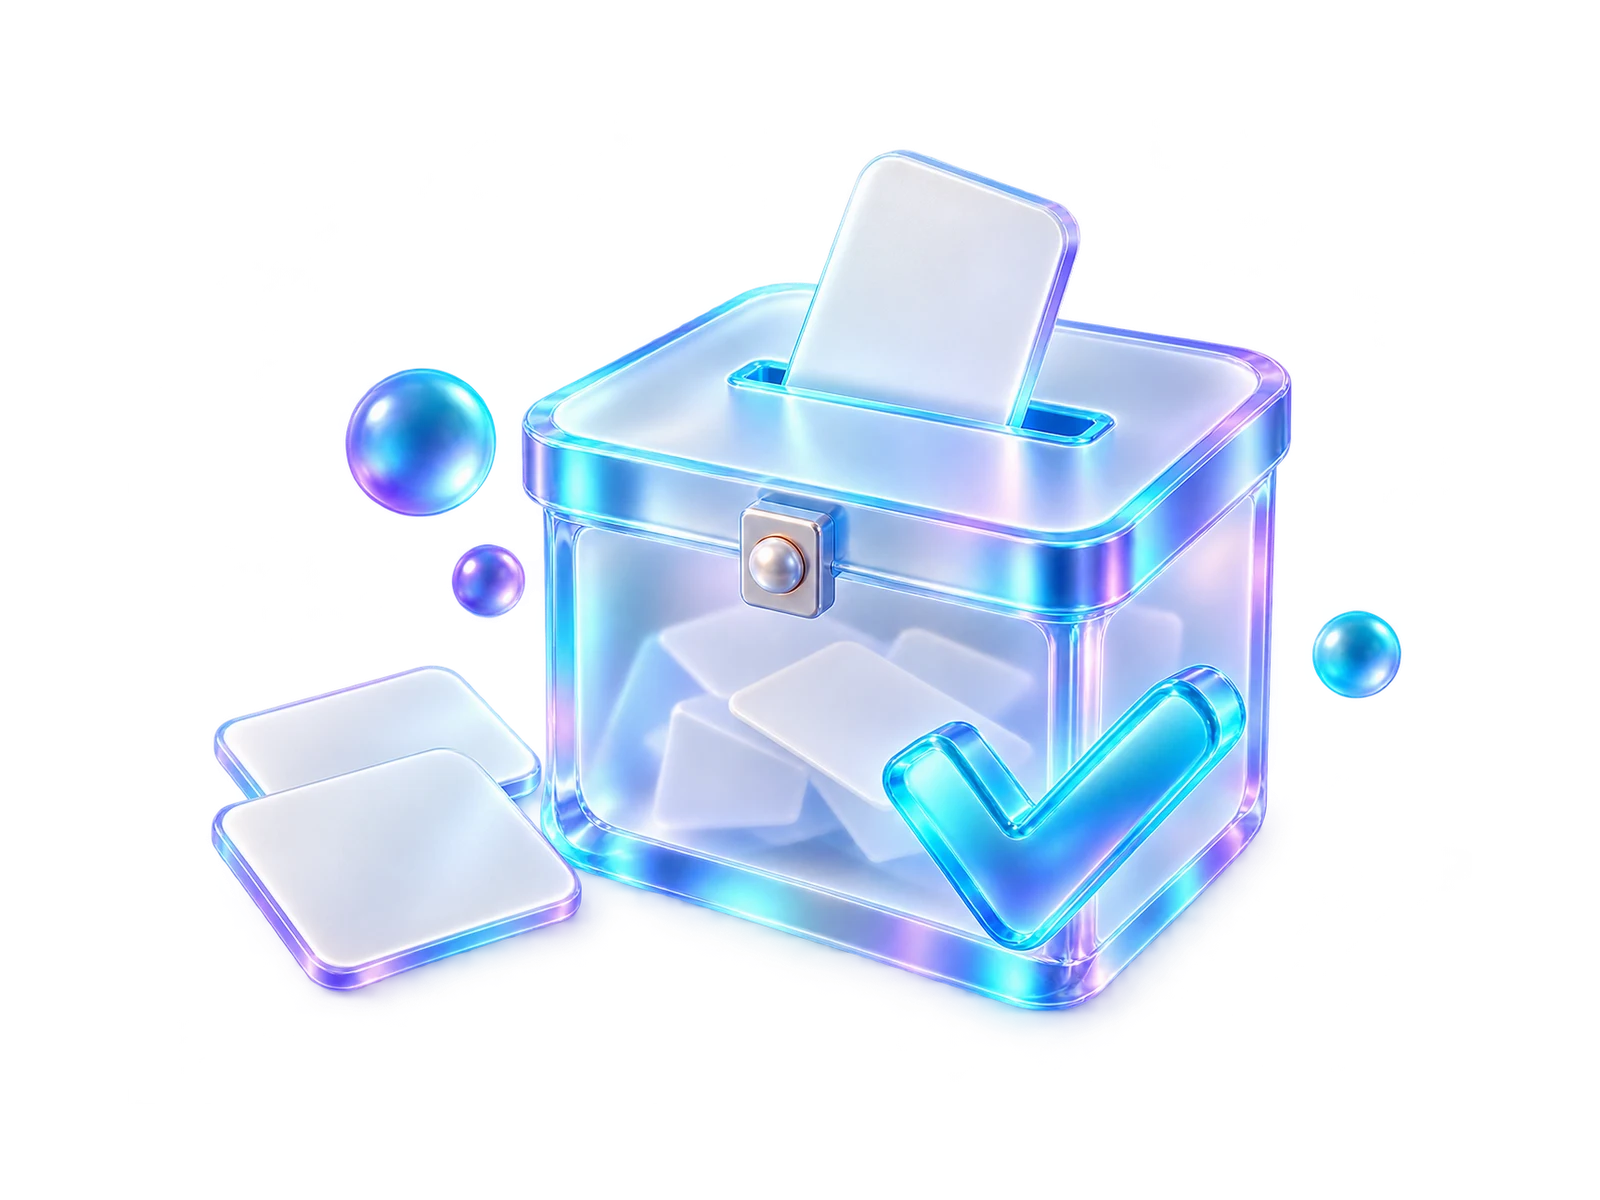
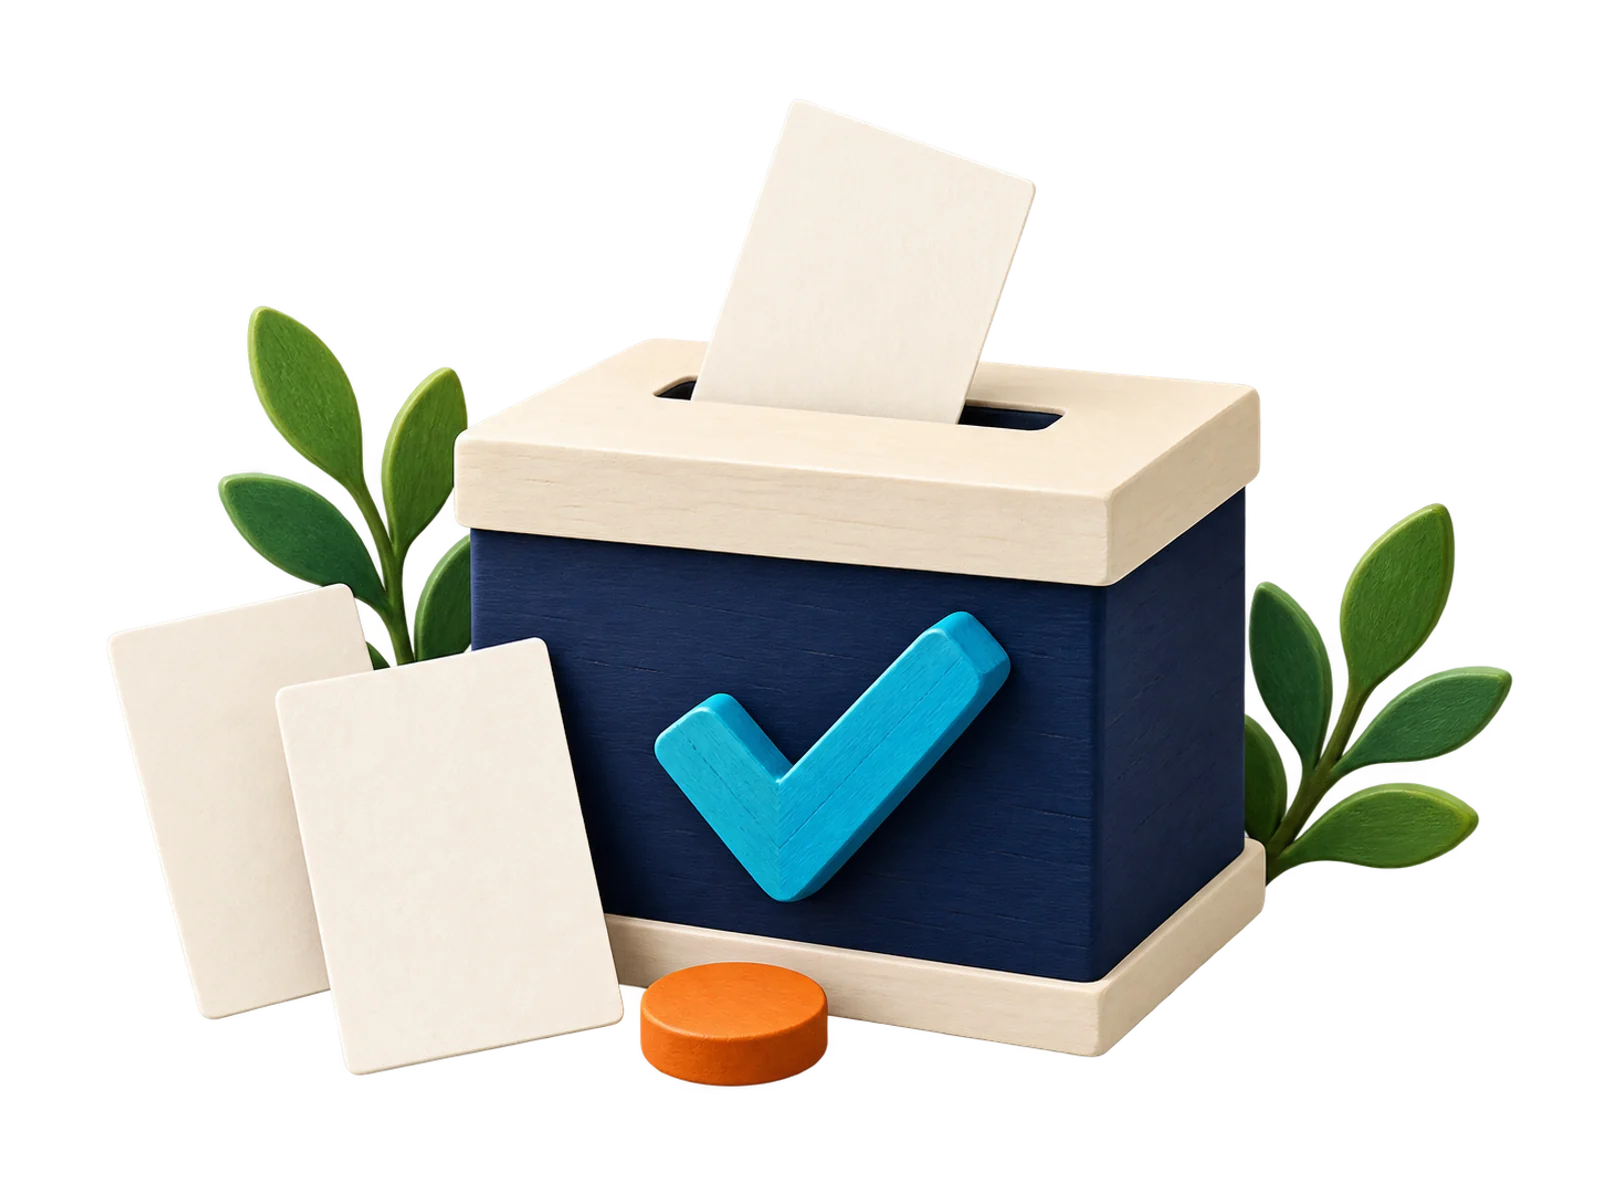
Mix tactile school artwork with glass controls and ivory reading cards

diff --git a/app/globals.css b/app/globals.css
@@ -1,10 +1,13 @@
-/* Shared glass system. Keep tokens in brand.ts; all pages use this layer. */
+/* Shared identity: glass controls and warm opaque editorial surfaces. */
 :root {
   color-scheme: light;
   --radius: 26px;
   --shadow: inset 0 1px 1px #fff, 0 10px 28px #344d6f0d, 0 3px 0 #dce6f180;
   --glass: linear-gradient(145deg, #fffffff5, #f8fbfff2 60%, #eaf1ffdd);
   --control-radius: 14px;
+  --paper: #fffdf9;
+  --paper-line: #e7e2d9;
+  --paper-shadow: 0 10px 30px #493d2a0a;
 }
 * {
   box-sizing: border-box;
@@ -469,16 +472,10 @@ main {
 .knowledge-panel {
   position: relative;
   padding: 40px;
-  border: 1px solid #fff;
+  border: 1px solid #dfe7f0;
   border-radius: 32px;
-  background:
-    radial-gradient(at 100% 80%, #d2f0fb80, transparent 55%),
-    radial-gradient(at 0 0, #e3dbff80, transparent 50%),
-    linear-gradient(130deg, #ecf4ffb0, #ffffff8a);
-  box-shadow:
-    inset 0 0 0 7px #ffffff40,
-    0 0 0 1px #dae5f1,
-    0 20px 40px #3d5a7d08;
+  background: #edf3fb;
+  box-shadow: 0 12px 35px #344d6f08;
 }
 .knowledge-panel .eyebrow {
   font-size: 12px;
@@ -493,13 +490,10 @@ main {
   display: block;
   position: relative;
   padding: 26px 22px 20px;
-  border: 1px solid white;
+  border: 1px solid var(--paper-line);
   border-radius: 24px;
-  background: linear-gradient(145deg, #ffffffdc, #ffffff80);
-  box-shadow:
-    0 12px 23px color-mix(in srgb, var(--tone) 9%, transparent),
-    inset 0 2px 1px white,
-    0 4px 0 #cbd9ee35;
+  background: var(--paper);
+  box-shadow: var(--paper-shadow);
   color: var(--text);
   transition: transform 0.25s;
 }
@@ -525,15 +519,9 @@ main {
   height: 68px;
   border: 1px solid white;
   border-radius: 19px;
-  background: linear-gradient(
-    145deg,
-    #fff,
-    color-mix(in srgb, var(--tone) 13%, white)
-  );
-  box-shadow:
-    inset 0 2px 1px #fff,
-    0 5px 0 color-mix(in srgb, var(--tone) 13%, #dbe5f1),
-    0 10px 20px color-mix(in srgb, var(--tone) 17%, transparent);
+  background: color-mix(in srgb, var(--tone, var(--primary)) 8%, var(--paper));
+  box-shadow: 0 4px 0
+    color-mix(in srgb, var(--tone, var(--primary)) 16%, #e7e2d9);
   color: var(--tone);
   margin-bottom: 27px;
   transform: rotate(-5deg);
@@ -567,13 +555,11 @@ main {
   gap: 24px;
 }
 .card {
-  background: var(--glass);
-  border: 1px solid #fff;
+  background: var(--paper);
+  border: 1px solid var(--paper-line);
   border-radius: var(--radius);
   padding: 26px;
-  box-shadow:
-    var(--shadow),
-    0 0 0 1px #dde7f070;
+  box-shadow: var(--paper-shadow);
 }
 .card h3 {
   margin: 0 0 12px;
@@ -671,12 +657,10 @@ main {
   flex-direction: column;
   min-width: 0;
   border-radius: 26px;
-  background: var(--glass);
-  border: 1px solid white;
+  background: var(--paper);
+  border: 1px solid var(--paper-line);
   overflow: hidden;
-  box-shadow:
-    var(--shadow),
-    0 0 0 1px #dce5f180;
+  box-shadow: var(--paper-shadow);
   transition:
     transform 0.2s,
     box-shadow 0.2s;
@@ -779,11 +763,7 @@ main {
   --gc: var(--g7);
   color: var(--text);
   transition: transform 0.2s;
-  background: linear-gradient(
-    140deg,
-    #ffffffed,
-    color-mix(in srgb, var(--gc) 4%, #fff)
-  );
+  background: var(--paper);
   border: 1px solid color-mix(in srgb, var(--gc) 15%, white);
 }
 .grade-tile:hover {
@@ -841,12 +821,10 @@ main {
   gap: 40px;
   align-items: center;
   padding: 45px 55px;
-  background:
-    radial-gradient(at 0 100%, #d8ccff75, transparent 60%),
-    linear-gradient(120deg, #e9f7fc, #eef1ff);
+  background: var(--paper);
   border-radius: 32px;
-  border: 1px solid white;
-  box-shadow: var(--shadow);
+  border: 1px solid var(--paper-line);
+  box-shadow: var(--paper-shadow);
 }
 .participation-banner h2 {
   font-size: 40px;
@@ -1149,12 +1127,10 @@ input[type="radio"] {
   width: 54px;
   height: 54px;
   border-radius: 16px;
-  background: linear-gradient(140deg, #fff, #dceeff);
+  background: color-mix(in srgb, var(--tone, var(--primary)) 8%, var(--paper));
   color: var(--ic, var(--primary));
-  box-shadow:
-    inset 0 1px 1px #fff,
-    0 3px 0 #bfd4ee55,
-    0 7px 12px #5577a313;
+  box-shadow: 0 4px 0
+    color-mix(in srgb, var(--tone, var(--primary)) 16%, #e7e2d9);
   margin-bottom: 19px;
 }
 .mobile-break {

diff --git a/content/assets.ts b/content/assets.ts
@@ -12,15 +12,15 @@ export type Illustration = {
 
 export const illustrations = {
   "home-hero": { file: "/assets/illustrations/home-hero.webp", width: 1600, height: 1200, fallback: "reading" },
-  "grade-7-discover": { file: "/assets/illustrations/grade-7-discover.webp", width: 1200, height: 900, fallback: "grade7" },
-  "grade-8-experiment": { file: "/assets/illustrations/grade-8-experiment.webp", width: 1200, height: 900, fallback: "grade8" },
-  "grade-9-launch": { file: "/assets/illustrations/grade-9-launch.webp", width: 1200, height: 900, fallback: "grade9" },
-  "school-values": { file: "/assets/illustrations/school-values.webp", width: 1200, height: 900, fallback: "values" },
-  "challenge-lab": { file: "/assets/illustrations/challenge-lab.webp", width: 1200, height: 900, fallback: "challenges" },
-  "debate-dialogue": { file: "/assets/illustrations/debate-dialogue.webp", width: 1200, height: 900, fallback: "debate" },
-  "vote-voice": { file: "/assets/illustrations/vote-voice.webp", width: 1200, height: 900, fallback: "vote" },
-  "kindness-garden": { file: "/assets/illustrations/kindness-garden.webp", width: 1200, height: 900, fallback: "kindness" },
-  "reading-corner": { file: "/assets/illustrations/reading-corner.webp", width: 1200, height: 900, fallback: "reading" },
+  "grade-7-discover": { file: "/assets/illustrations/grade-7-discover.webp", width: 1600, height: 1200, fallback: "grade7" },
+  "grade-8-experiment": { file: "/assets/illustrations/grade-8-experiment.webp", width: 1600, height: 1200, fallback: "grade8" },
+  "grade-9-launch": { file: "/assets/illustrations/grade-9-launch.webp", width: 1600, height: 1200, fallback: "grade9" },
+  "school-values": { file: "/assets/illustrations/school-values.webp", width: 1600, height: 1200, fallback: "values" },
+  "challenge-lab": { file: "/assets/illustrations/challenge-lab.webp", width: 1600, height: 1200, fallback: "challenges" },
+  "debate-dialogue": { file: "/assets/illustrations/debate-dialogue.webp", width: 1600, height: 1200, fallback: "debate" },
+  "vote-voice": { file: "/assets/illustrations/vote-voice.webp", width: 1600, height: 1200, fallback: "vote" },
+  "kindness-garden": { file: "/assets/illustrations/kindness-garden.webp", width: 1600, height: 1200, fallback: "kindness" },
+  "reading-corner": { file: "/assets/illustrations/reading-corner.webp", width: 1600, height: 1200, fallback: "reading" },
 } satisfies Record<string, Illustration>;
 
 export type IllustrationId = keyof typeof illustrations;

diff --git a/app/articles/articles.css b/app/articles/articles.css
@@ -38,9 +38,9 @@
   direction: ltr;
   border-radius: 28px;
   overflow: hidden;
-  background: linear-gradient(140deg, #fff, #eaf1ff);
-  border: 1px solid white;
-  box-shadow: var(--shadow);
+  background: var(--paper);
+  border: 1px solid var(--paper-line);
+  box-shadow: var(--paper-shadow);
   color: var(--text);
 }
 .featured-image {
@@ -264,6 +264,14 @@
 }
 .reader-content {
   min-width: 0;
+  width: 100%;
+  max-width: 780px;
+  padding: clamp(18px, 3vw, 42px);
+  background: var(--paper);
+  border: 1px solid var(--paper-line);
+  border-radius: 26px;
+  box-shadow: var(--paper-shadow);
+  overflow-wrap: anywhere;
 }
 .reader-toolbar {
   display: flex;
@@ -295,7 +303,7 @@
   padding: 23px;
   border: 1px solid #dae6f6;
   border-radius: 20px;
-  background: #eaf3ffb0;
+  background: #eef4fc;
   margin-bottom: 32px;
 }
 .learning-goal > svg {
@@ -342,7 +350,7 @@
 }
 .reader-activity {
   border: 1px solid #e1d9fa;
-  background: linear-gradient(140deg, #f3f0ff, #f8faff);
+  background: #f4f0fb;
   padding: 28px;
   border-radius: 23px;
   scroll-margin-top: 120px;
@@ -388,7 +396,7 @@
 .article-quiz {
   border: 1px solid #cddff3;
   border-radius: 24px;
-  background: var(--glass);
+  background: #f1f5fb;
   padding: 28px;
   margin: 25px 0;
 }
@@ -707,5 +715,34 @@
 @media (prefers-reduced-motion: reduce) {
   .reading-progress {
     display: none;
+  }
+}
+
+/* Reading measure and gutters remain comfortable when the reader enlarges text. */
+.reader-content .reader-section {
+  max-width: 65ch;
+  margin-inline: auto;
+}
+@media (max-width: 700px) {
+  .reader-content {
+    padding: 20px 16px;
+    border-radius: 20px;
+  }
+  .reader-activity,
+  .article-quiz,
+  .learning-goal {
+    padding: 18px 14px;
+  }
+  .reader-toolbar .btn {
+    flex-wrap: wrap;
+  }
+}
+@media print {
+  .reader-content {
+    background: white;
+    border: 0;
+    box-shadow: none;
+    padding: 0;
+    max-width: none;
   }
 }

diff --git a/components/Illustration.tsx b/components/Illustration.tsx
@@ -3,17 +3,24 @@ import path from "node:path";
 import { illustrations, type IllustrationId } from "@/content/assets";
 import { Icon } from "@/components/icons";
 
+const variants = (file: string, width: number) => {
+  const has = (w: number) => fs.existsSync(path.join(process.cwd(), "public", file.replace(/\.webp$/, `-${w}.webp`)));
+  return [480, 800].filter(has).map((w) => `${file.replace(/\.webp$/, `-${w}.webp`)} ${w}w`).concat(`${file} ${width}w`).join(", ");
+};
+
 // يعرض الرسم إذا كان ملفه موجودًا، وإلا بديلًا مؤقتًا بنفس المقاس حتى لا تتحرك الصفحة عند تركيبه.
 export default function Illustration({
   id,
   priority = false,
   color,
   className = "",
+  sizes = "(max-width: 760px) 90vw, 560px",
 }: {
   id: IllustrationId;
   priority?: boolean;
   color?: string;
   className?: string;
+  sizes?: string;
 }) {
   const ill = illustrations[id];
   const ratio = `${ill.width} / ${ill.height}`;
@@ -24,6 +31,9 @@ export default function Illustration({
       <img
         className={`illustration ${className}`}
         src={ill.file}
+        // نسخ أصغر (480 و800) للهواتف والبطاقات؛ الأصل 1600 للشاشات الكبيرة
+        srcSet={variants(ill.file, ill.width)}
+        sizes={sizes}
         width={ill.width}
         height={ill.height}
         alt={"alt" in ill ? (ill.alt as string) : ""}

diff --git a/app/page.tsx b/app/page.tsx
@@ -282,10 +282,10 @@ export default async function Home() {
             </div>
           </div>
           <img
-            src="/assets/play/arena-hero-800.webp"
+            src="/assets/play/learning-landscape-v2-800.webp"
             width={800}
             height={600}
-            alt="تكوين تعليمي زجاجي يجمع روبوتًا وكتابًا وكرة وألغازًا"
+            alt="مشهد تعليمي من الورق والخشب يجمع التعلم والرياضة والألعاب"
             loading="lazy"
             style={{ borderRadius: 30, width: "100%" }}
           />

diff --git a/components/ScienceLab.tsx b/components/ScienceLab.tsx
@@ -129,7 +129,7 @@ export default function ScienceLab({
                 src={"/assets/illustrations/" + subject.fallback + ".webp"}
                 width={1600}
                 height={1200}
-                alt="تكوين زجاجي مستوحى من مجالات المعرفة"
+                alt="تكوين تعليمي مستوحى من مجالات المعرفة"
               />
               <button className="btn" onClick={() => setEnabled(true)}>
                 <Box size={19} /> افتح المجسّم التفاعلي

diff --git a/app/play/play.css b/app/play/play.css
@@ -1,6 +1,6 @@
 .play-space {
   --play-line: #dce5f1;
-  --play-paper: linear-gradient(145deg, #ffffffed, #f5f9ffdb);
+  --play-paper: var(--paper, #fffdf9);
   background:
     radial-gradient(ellipse at 0 0, #e6e9ff80, transparent 34%),
     radial-gradient(ellipse at 100% 18%, #d8f7ff70, transparent 30%);
